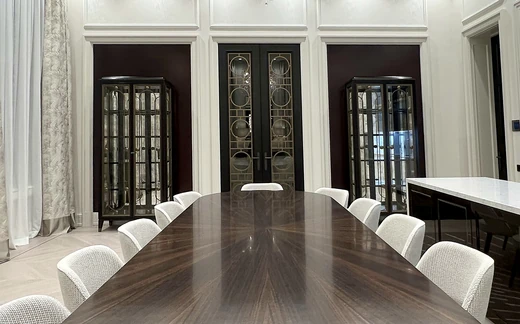
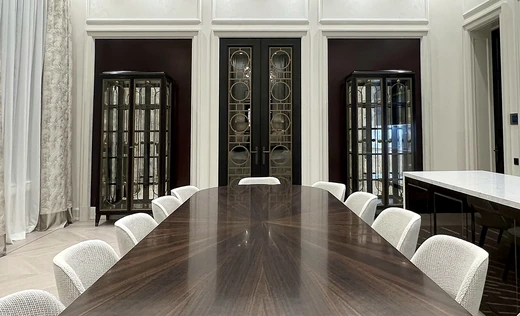
Этап 1: исправления и ответы по ТЗ №1

diff --git a/dizajn-v4/index.html b/dizajn-v4/index.html
@@ -207,7 +207,7 @@ if(document.readyState==='complete')setTimeout(go,300);else addEventListener('lo
   <div class="x-hero-stick">
     <picture class="x-hero-photo">
         <source media="(max-width:760px)" srcset="/dizajn-v4/img/obekty/dom-stolovaya-hero-tall-m.webp 900w, /dizajn-v4/img/obekty/dom-stolovaya-hero-tall.webp 1120w" sizes="100vw">
-        <img src="/dizajn-v4/img/obekty/dom-stolovaya-hero-l.webp" srcset="/dizajn-v4/img/obekty/dom-stolovaya-hero-m.webp 1000w, /dizajn-v4/img/obekty/dom-stolovaya-hero-l.webp 1600w, /dizajn-v4/img/obekty/dom-stolovaya-hero.webp 2200w" sizes="100vw" alt="Столовая в загородном доме после ремонта" width="2200" height="1371" fetchpriority="high">
+        <img src="/dizajn-v4/img/obekty/dom-stolovaya-hero-l.webp" srcset="/dizajn-v4/img/obekty/dom-stolovaya-hero-m.webp 1000w, /dizajn-v4/img/obekty/dom-stolovaya-hero-l.webp 1600w, /dizajn-v4/img/obekty/dom-stolovaya-hero.webp 2200w" sizes="100vw" alt="Столовая в загородном доме после ремонта" width="2200" height="1335" fetchpriority="high">
       </picture>
     <h1 class="x-h1">
       <span class="x-mask"><span class="x-word" data-letters>Ремонт</span></span>
